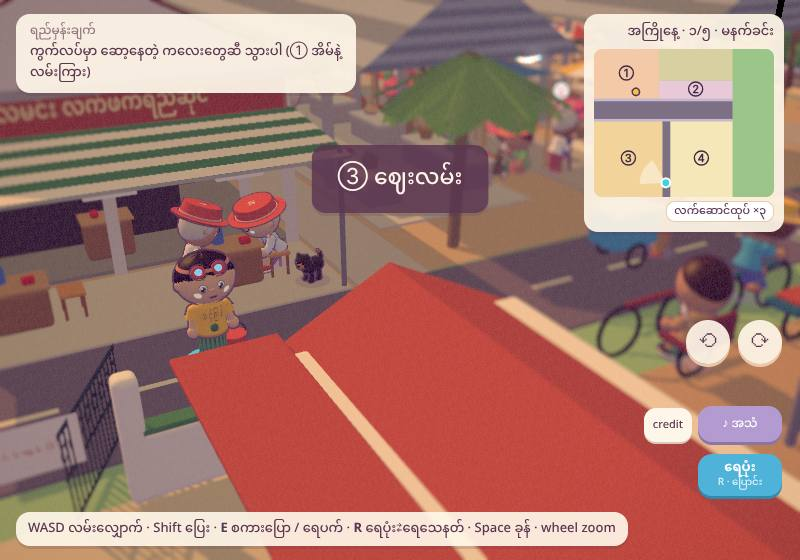
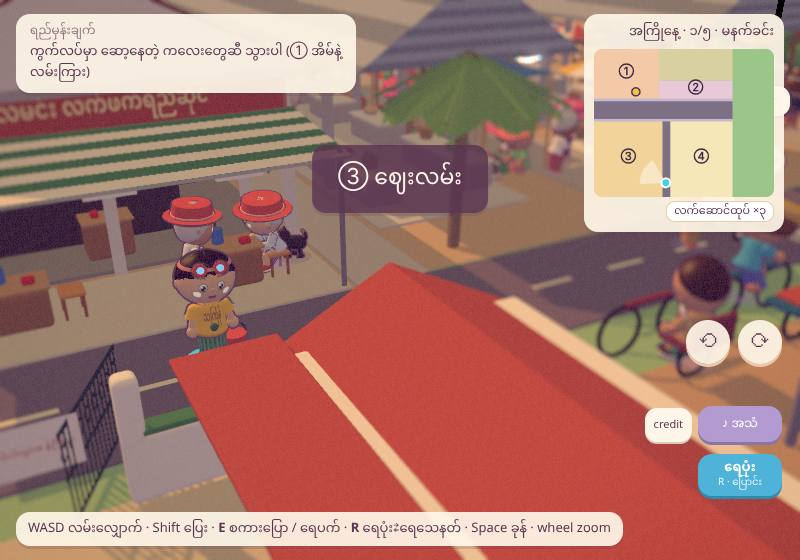
T2: last screenshots (heroes, phone), phone turn buttons clear of the tool button; T2 → review
Claude-Session: https://claude.ai/code/session_017xuZq8H4cNKSMdBo5y4KvM

diff --git a/yangon.html b/yangon.html
@@ -101,7 +101,7 @@
   #credits ul{padding-left:18px;margin:8px 0} #credits a{color:#7a4a9a;word-break:break-word} #credits p{margin:4px 0;color:#7a6f86}
   #credits button{font:inherit;border:0;border-radius:10px;padding:6px 14px;background:#5a3550;color:#fff;cursor:pointer}
   #tool small{display:block;font-size:10px;opacity:.85} #tool.gun{background:#ff7f3f;box-shadow:0 3px 0 #c95a26}
-  @media (pointer:coarse){#tool{bottom:calc(104px + env(safe-area-inset-bottom,0px))}#tool small{display:none}#turn{bottom:calc(162px + env(safe-area-inset-bottom,0px))}}
+  @media (pointer:coarse){#tool{bottom:calc(104px + env(safe-area-inset-bottom,0px))}#tool small{display:none}#turn{bottom:calc(226px + env(safe-area-inset-bottom,0px))}}
   @media (pointer:coarse){#splash,#jump{display:block}#hint{display:none!important}#prompt{bottom:calc(112px + env(safe-area-inset-bottom,0px))}}
   @media (max-width:640px){
     #goal{width:min(250px,calc(100% - 170px));font-size:12px}

diff --git a/docs/TASKS.md b/docs/TASKS.md
@@ -9,7 +9,7 @@
 | # | task | အခြေအနေ | ဘယ်သူ |
 |---|---|---|---|
 | T1 | [camlab — Go-Go Town! ပုံစံ ကင်မရာ + library ၃ ခု prototype](#t1-camlab) | ✅ 2026-10-31 (PR #28) | အခြား model |
-| T2 | [ဂိမ်းအစစ် ကင်မရာ ပြောင်း + PALETTE](#t2-ဂိမ်းအစစ်-ကင်မရာ-ပြောင်း--palette) — `world.js`/`yangon/*` ကို camlab ကင်မရာ၊ sky dome၊ ဖျော့၊ `palette.js`၊ ① အဆောက်အအုံ ၄ ဘက် | 🔨 plan ✅ · code (PR #30 — CAMERA.md §1-b / §4-b ထပ်ထည့်နေ) [plans/T2.md](plans/T2.md) | အခြား model · branch `claude/camera` |
+| T2 | [ဂိမ်းအစစ် ကင်မရာ ပြောင်း + PALETTE](#t2-ဂိမ်းအစစ်-ကင်မရာ-ပြောင်း--palette) — `world.js`/`yangon/*` ကို camlab ကင်မရာ၊ sky dome၊ ဖျော့၊ `palette.js`၊ ① အဆောက်အအုံ ၄ ဘက် | 👀 plan ✅ · code (PR #30) [plans/T2.md](plans/T2.md) | အခြား model · branch `claude/camera` |
 | T3 | [**ရေပက် core loop**](#t3-ရေပက်-core-loop) — လက်နက် ၃ မျိုး · ရေ=ကျည် · ထိတဲ့ခဏ · fx (three.quarks/decal/wet-map) · စည်းကမ်း · Yuka NPC · carry ချိတ် | ⏳ spec ✅ — A–D အခု စလို့ရ၊ orbit က T2 ပြီးမှ | အခြား model · branch `claude/water` |
 | T3b | [ရက် ၄ vertical slice](#t3b-ရက်-၄-vertical-slice-t2--t3-ပြီးမှ) — ၅v၅ → ဖလား ချောင်းထဲ (script) → အတူ ဆယ် → ၅ နာရီ ပြေး → ရေသွန်း | ⏳ (T2+T3 ပြီးမှ spec) | — |
 | T4 | [ကောက်-သယ်-ချ system](#t4-ကောက်-သယ်-ချ-system) (လက်/ရင်ဘတ်/ခေါင်းပေါ်/စက်ဘီးနောက်၊ ရေခဲ timer၊ ပက်ခံရရင် ကျ) · arm IK | ✅ 2026-10-31 (PR #29) | အခြား model |
